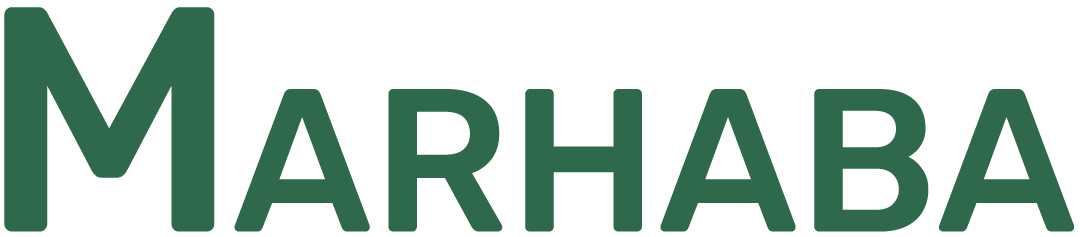
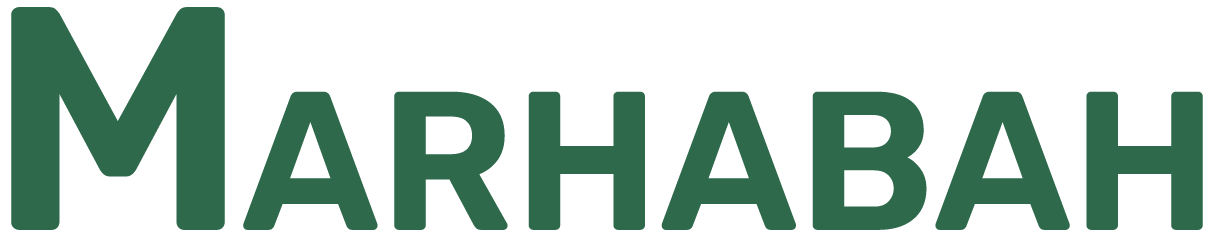
OJ. updated the name

diff --git a/src/Screens/Auth/SignupScreen.tsx b/src/Screens/Auth/SignupScreen.tsx
@@ -112,7 +112,7 @@ const SignupScreen = () => {
           ]}>
           <Image style={tailwind`w-22 h-22`} source={Icon} />
           <View style={tailwind`mt-2 items-center`}>
-            <Image style={tailwind`w-56 h-12`} source={Logo} />
+            <Image style={tailwind`w-62 h-12`} source={Logo} />
             <Text style={tailwind`mt-2 text-lg font-semibold text-gray-800`}>
               Where love begins with hello!
             </Text>

diff --git a/src/Screens/Auth/LoginScreen.tsx b/src/Screens/Auth/LoginScreen.tsx
@@ -73,7 +73,7 @@ const LoginScreen = () => {
           ]}>
           <Image style={tailwind`w-22 h-22`} source={Icon} />
           <View style={tailwind`mt-2 items-center`}>
-            <Image style={tailwind`w-56 h-12`} source={Logo} />
+            <Image style={tailwind`w-62 h-12`} source={Logo} />
             <Text style={tailwind`mt-2 text-lg font-semibold text-gray-800`}>
               Where love begins with hello!
             </Text>
